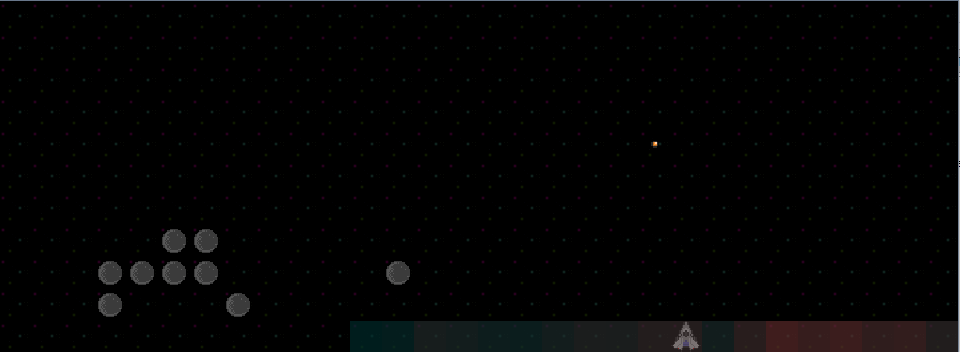
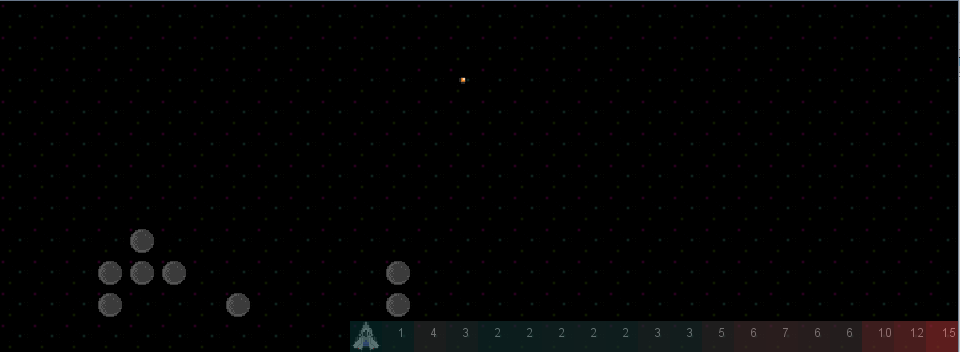
Cells now render the precentage they were visited

diff --git a/Artefact/gvgai-2016/src/DissertationFiles/Visualisations.java b/Artefact/gvgai-2016/src/DissertationFiles/Visualisations.java
@@ -127,20 +127,23 @@ public class Visualisations
 
                 String[] parts = posString.split(":");
 
-                int x1 = (int) Double.parseDouble(parts[0].trim());
-                int y1 = (int) Double.parseDouble(parts[1].trim());
+                int x = (int) Double.parseDouble(parts[0].trim());
+                int y = (int) Double.parseDouble(parts[1].trim());
 
 
                 Double value = Double.parseDouble(entry.getValue().toString());
                 value /= DataCollection.getInstance().totalCellsExplored;
                 value *= 1000;
+
+                Integer intValue = value.intValue() / 10;
+                g.setPaint(new Color(200, 200, 200));
+                g.drawString(intValue.toString(), x + (cellSize / 2),y + (cellSize /2));
+
                 if (value > 254.0)
                     value = 254.0;
-
                 g.setPaint(new Color(value.intValue(), 50, 50, 150));
-                g.fillRect((int) x1, (int) y1, cellSize, cellSize);
+                g.fillRect((int) x, (int) y, cellSize, cellSize);
 
-                g.;
 
             }
         }
